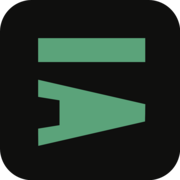
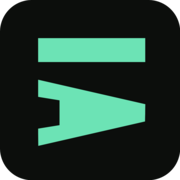
feat(brand): pivot accent sage → menthe atmosphérique #6CE3B5
Le sage olive #5BA37A est remplacé par menthe atmosphérique #6CE3B5,
plus lumineux sur warm dark, identité brand préservée.

Code :
- main.css : --color-accent + accent-soft + accent-glow (rgba 108,227,181)
- ParticleCanvas.vue : ACCENT constant
- HomeMasthead.vue, NewsletterForm.vue, RapportsBookshelf.vue, pages/index.vue :
  mises à jour des rgba() hardcodés (gradients, hover states, hero grid)

Logo / favicon :
- logo/favicon-source.svg : fill #00FF41 → #6CE3B5
- logo/logo-raw.svg, logo/logo.svg : color #00FF41 → #6CE3B5
- public/favicon.svg, .ico, apple-touch-icon, icon-192/512 : régénérés
  via scripts/generate-favicons.sh (ImageMagick)

OG images (Default.satori.vue) : non touchées, restent terminal green
(c'est leur identité visuelle dédiée pour le partage social).

Changed region(s): [[0.1944, 0.4444, 0.8056, 0.8056], [0.1944, 0.1944, 0.8056, 0.3611]]

diff --git a/app/pages/index.vue b/app/pages/index.vue
@@ -160,8 +160,8 @@ onUnmounted(() => {
 .hero-grid-bg {
   position: absolute; inset: 0; z-index: 0;
   background-image:
-    linear-gradient(rgba(91, 163, 122, 0.04) 1px, transparent 1px),
-    linear-gradient(90deg, rgba(91, 163, 122, 0.04) 1px, transparent 1px);
+    linear-gradient(rgba(108, 227, 181, 0.04) 1px, transparent 1px),
+    linear-gradient(90deg, rgba(108, 227, 181, 0.04) 1px, transparent 1px);
   background-size: 40px 40px;
   mask-image: radial-gradient(ellipse at center, black 30%, transparent 80%);
   will-change: transform;

diff --git a/app/assets/css/main.css b/app/assets/css/main.css
@@ -17,9 +17,9 @@
   --color-muted: #8A8780;
   --color-muted-soft: #6E6B65;
   --color-dim: #5C5A52;
-  --color-accent: #5BA37A;
-  --color-accent-soft: rgba(91, 163, 122, 0.18);
-  --color-accent-glow: rgba(91, 163, 122, 0.25);
+  --color-accent: #6CE3B5;
+  --color-accent-soft: rgba(108, 227, 181, 0.18);
+  --color-accent-glow: rgba(108, 227, 181, 0.25);
   --color-rule: rgba(232, 229, 221, 0.12);
   --color-hairline: rgba(232, 229, 221, 0.1);
   --color-hairline-strong: rgba(232, 229, 221, 0.25);

diff --git a/app/components/RapportsBookshelf.vue b/app/components/RapportsBookshelf.vue
@@ -175,8 +175,8 @@ function onToggle(openedRow: HTMLDetailsElement) {
   transition: background 0.25s ease;
 }
 .rb-row:last-of-type { border-bottom: none; }
-.rb-row:hover  { background: rgba(91, 163, 122, 0.03); }
-.rb-row[open]  { background: rgba(91, 163, 122, 0.05); }
+.rb-row:hover  { background: rgba(108, 227, 181, 0.03); }
+.rb-row[open]  { background: rgba(108, 227, 181, 0.05); }
 
 .rb-summary {
   list-style: none;

diff --git a/app/components/HomeMasthead.vue b/app/components/HomeMasthead.vue
@@ -23,7 +23,7 @@ defineProps<{
   border-top: 1px solid var(--color-rule);
   border-bottom: 1px solid var(--color-rule);
   margin: 3.5rem 0 2rem;
-  background: linear-gradient(180deg, transparent, rgba(91, 163, 122, 0.025), transparent);
+  background: linear-gradient(180deg, transparent, rgba(108, 227, 181, 0.025), transparent);
 }
 
 .masthead-inner {

diff --git a/app/components/ParticleCanvas.vue b/app/components/ParticleCanvas.vue
@@ -7,7 +7,7 @@
 const canvasEl = ref<HTMLCanvasElement | null>(null)
 
 // ── Tunables (à ajuster sur le rendu réel) ────────
-const ACCENT             = '91,163,122'
+const ACCENT             = '108,227,181'
 const COUNT_DESKTOP      = 45
 const COUNT_MOBILE       = 25
 const MOBILE_BREAK       = 768

diff --git a/app/components/NewsletterForm.vue b/app/components/NewsletterForm.vue
@@ -151,7 +151,7 @@ async function submit() {
   content: '';
   position: absolute;
   inset: 0;
-  background: radial-gradient(ellipse at 30% 50%, rgba(91, 163, 122, 0.08), transparent 50%);
+  background: radial-gradient(ellipse at 30% 50%, rgba(108, 227, 181, 0.08), transparent 50%);
   pointer-events: none;
 }
 
